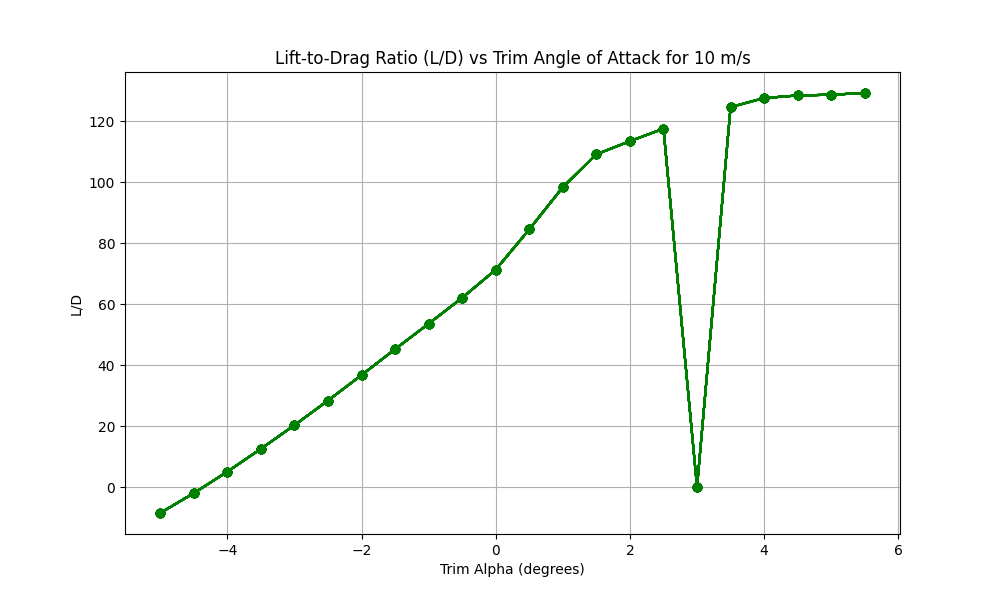
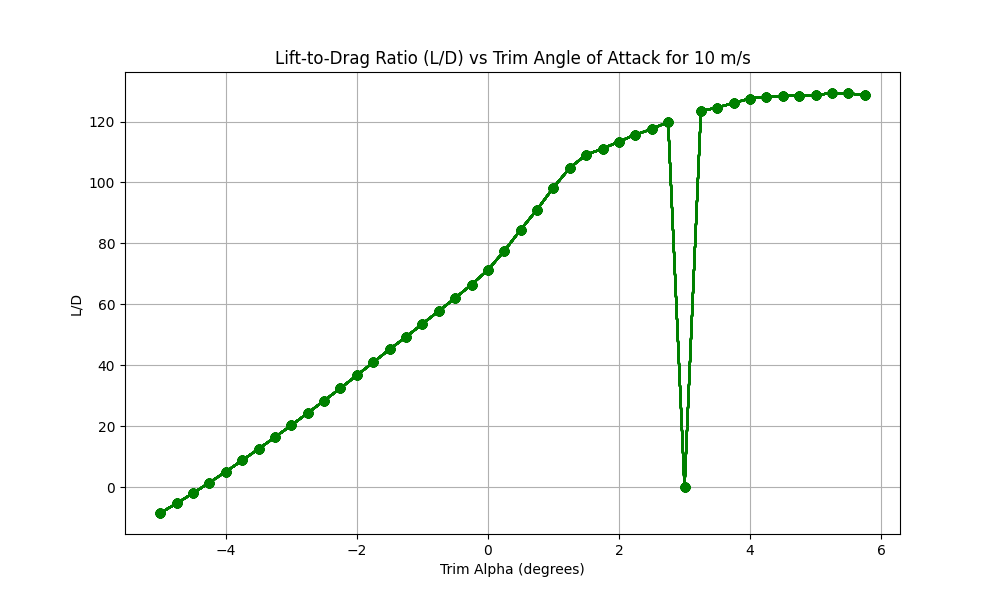
added drag vs velocity, lift vs velocity graphs for trim alpha, upped velocity array to 40

diff --git a/src/main.py b/src/main.py
@@ -14,15 +14,21 @@ c = 0.1016  # Chord length (m)
 S = b * c  # Wing area (m^2)
 AR = b**2 / S  # Aspect ratio
 
+W_est = 7 # Estimated weight of the aircraft (N)
+
 cl = np.array(data['Cl'])
 cd = np.array(data['Cd'])
 alpha = np.array(data['Alpha'])
 
 ## Calculations 
 
+#######################################################################################################
+################################# Main Wing Body Calculations #########################################
+#######################################################################################################
+
 # for 1 to 20 m/s
-velocity = np.arange(1, 21, 1)
-trim_alpha = np.arange(-5, 6, .5)
+velocity = np.arange(1, 41, 1)
+trim_alpha = np.arange(-5, 6, .25)
 lift_arr = []
 drag_arr = []
 L_D_arr = []
@@ -79,7 +85,7 @@ plt.figure(figsize=(10, 6))
 plt.plot(alpha, cd, marker='o', linestyle='-', color='r', label='Cd')
 plt.title('Drag Coefficient (Cd) vs Angle of Attack (Alpha)')
 plt.xlabel('Alpha (degrees)')
-plt.ylabel('Cd')
+plt.ylabel('Cd') 
 plt.grid(True)
 plt.legend()
 plt.savefig('plots/Cd_vs_Alpha.png')
@@ -93,4 +99,26 @@ plt.xlabel('Trim Alpha (degrees)')
 plt.ylabel('L/D')
 plt.grid(True)
 plt.savefig('plots/L_D_vs_TrimAlpha_10ms.png')
+plt.close()
+
+# Plot Lift vs velocity for trim alpha = 5 degrees
+plt.figure(figsize=(10, 6))
+plt.plot(velocity, lift_arr[20], marker='o', linestyle='-', color='b')
+plt.plot(velocity, [W_est]*len(velocity), marker='o', linestyle='-', color='r', label='Weight Estimate')
+plt.title('Lift vs Velocity for Trim Alpha = 5 degrees')
+plt.xlabel('Velocity (m/s)')
+plt.ylabel('Lift (N)')
+plt.grid(True)
+plt.legend()
+plt.savefig('plots/Lift_vs_Velocity_5deg.png')
+plt.close()
+
+# Plot Drag vs velocity for trim alpha = 5 degrees
+plt.figure(figsize=(10, 6))
+plt.plot(velocity, drag_arr[20], marker='o', linestyle='-', color='b')
+plt.title('Drag vs Velocity for Trim Alpha = 5 degrees')
+plt.xlabel('Velocity (m/s)')
+plt.ylabel('Drag (N)')
+plt.grid(True)
+plt.savefig('plots/Drag_vs_Velocity_5deg.png')
 plt.close()

diff --git a/README.md b/README.md
@@ -12,13 +12,22 @@
 
 **Airfoil**: NACA 4412 - plots at Re = 1e6
 
-<img src="plots/Cl_vs_Alpha.png" alt="Cl vs Alpha" width="400" height="240">
-
-<img src="plots/Cd_vs_Alpha.png" alt="Cd vs Alpha" width="400" height="240">
+<p style="margin: 0;">
+  <img src="plots/Cl_vs_Alpha.png" alt="Cl vs Alpha" width="400" height="240">
+  <img src="plots/Cd_vs_Alpha.png" alt="Cd vs Alpha" width="400" height="240">
+</p>
 
 **Wing Body L/D vs Trim Alpha at 10m/s**
 
 <img src="plots/L_D_vs_TrimAlpha_10ms.png" alt="L/D for 10m/s vs trim alpha" width="400" height="240">
+
+
+### 3d Printing and Design
+
+<p style="margin: 0;">
+  <img src="media/wing-block-ss.png" alt="wing-block" width="300" height="100">
+  <img src="media/wing-body-connector-ss.png" alt="wing-body-connector" width="300" height="400">
+</p>
 
 ## Dev Env Activation
 
